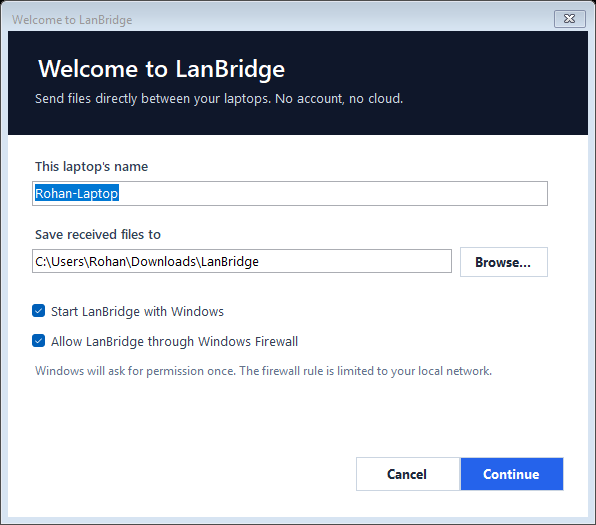
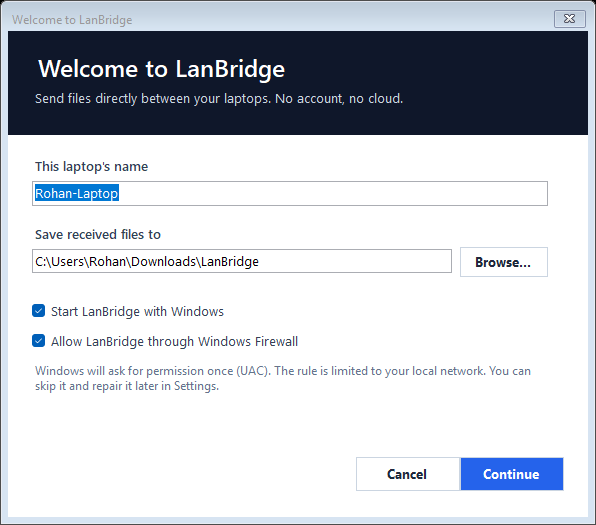
fix: make firewall setup one-time and polish docs

Changed region(s): [[0.3926, 0.701, 0.906, 0.7314], [0.0604, 0.7314, 0.3624, 0.7619]]

diff --git a/src/LanBridge/Forms/FirstRunForm.cs b/src/LanBridge/Forms/FirstRunForm.cs
@@ -17,7 +17,7 @@ namespace LanBridge
 
         public AppConfig Config => _config;
         public bool StartWithWindows => _startWithWindows.Checked;
-        public bool AddFirewallRule => _firewall.Checked;
+        public bool AddFirewallRule => _firewall.Checked && _firewall.Enabled;
 
         public FirstRunForm(AppConfig config)
         {
@@ -115,26 +115,32 @@ namespace LanBridge
             };
             Controls.Add(_startWithWindows);
 
+            var firewallRulePresent = Firewall.IsRulePresent();
             _firewall = new CheckBox
             {
-                Text = "Allow LanBridge through Windows Firewall",
+                Text = firewallRulePresent
+                    ? "Windows Firewall is already configured"
+                    : "Allow LanBridge through Windows Firewall",
                 Checked = true,
+                Enabled = !firewallRulePresent,
                 AutoSize = true,
                 ForeColor = Color.FromArgb(51, 65, 85),
                 Location = new Point(24, 300)
             };
             Controls.Add(_firewall);
 
-            var note = new Label
+            var firewallNote = new Label
             {
-                Text = "Windows will ask for permission once. The firewall rule is limited to your local network.",
+                Text = firewallRulePresent
+                    ? "The installer already added the rule. This setup will not ask for administrator permission."
+                    : "Windows will ask for permission once (UAC). The rule is limited to your local network. You can skip it and repair it later in Settings.",
                 ForeColor = Color.FromArgb(100, 116, 139),
                 Font = new Font("Segoe UI", 9f),
                 AutoSize = false,
                 Size = new Size(516, 36),
                 Location = new Point(24, 332)
             };
-            Controls.Add(note);
+            Controls.Add(firewallNote);
 
             _error = new Label
             {

diff --git a/src/LanBridge/Core/TransferServer.cs b/src/LanBridge/Core/TransferServer.cs
@@ -227,7 +227,7 @@ namespace LanBridge.Core
                         return;
                     }
 
-                    await SendErrorAsync(ssl, "not_implemented", cancellationToken).ConfigureAwait(false);
+                    await SendErrorAsync(ssl, "bad_intent", cancellationToken).ConfigureAwait(false);
                 }
             }
             catch (OperationCanceledException) when (cancellationToken.IsCancellationRequested)

diff --git a/src/LanBridge/Program.cs b/src/LanBridge/Program.cs
@@ -78,7 +78,7 @@ namespace LanBridge
                         log.Warn("Could not change startup: " + ex.Message);
                     }
 
-                    if (addFirewallRule)
+                    if (addFirewallRule && !Firewall.IsRulePresent())
                     {
                         bool added;
                         try

diff --git a/docs/manual-test.md b/docs/manual-test.md
@@ -1,0 +1,52 @@
+# Manual two-laptop checklist
+
+This is the release gate. Run it once with the build you intend to publish. Both laptops should use the same `LanBridge.exe`.
+
+## Prepare
+
+- [ ] Copy `artifacts\lanbridge-v0.1.0-win.zip` to laptop B, extract it, and run `LanBridge.exe`.
+- [ ] Run `artifacts\LanBridge.exe` on laptop A.
+- [ ] Complete first-run on both: device name, receive folder, and startup choice.
+- [ ] On first install only, approve the UAC prompt for the firewall rule. There should be no UAC prompt on later launches.
+- [ ] Confirm both tray icons exist and `%APPDATA%\LanBridge\lanbridge.log` has a listening line.
+
+## Pair
+
+- [ ] On A: tray → **Send files…**, pick a small text file, select B.
+- [ ] On B: the pairing dialog names A, then shows **Approve** and **Deny**. Approve it.
+- [ ] On B: a six-digit code appears and counts down from 2:00.
+- [ ] On A: enter the six digits. Both devices show as **Paired**.
+- [ ] Send the small file and open it from B's `Downloads\LanBridge`.
+
+## Transfers
+
+- [ ] Send a 100 MB or larger file. Progress advances on both laptops.
+- [ ] Start a second send while the first is running. The second is refused as busy, not silently dropped.
+- [ ] While receiving, click **Cancel** on B. Both progress dialogs close; no `.part` file remains in B's receive folder.
+- [ ] Send the same file name twice. The second copy becomes `name (1).ext`; the first is never overwritten.
+- [ ] Restart both apps. Send again without pairing; it goes straight through.
+- [ ] Turn **Visible on this network** off on B, then send from A to the paired B. It should still work via B's last endpoint.
+- [ ] Optional: reinstall B with a fresh identity. A should show **Identity changed** and refuse to auto-trust it.
+
+## Failure checks
+
+- [ ] Stop LanBridge on B and send from A. A reports the peer unreachable/offline without hanging.
+- [ ] On B, decline an incoming offer. A reports that the offer was declined; B writes no file.
+- [ ] Try a filename with `..\`, a slash, or `CON` from a test harness or a renamed file. B saves only a safe leaf name.
+
+## Record the result
+
+Reply with:
+
+```text
+Version:
+Windows build A/B:
+Pairing: passed/failed
+Small transfer: passed/failed
+Large transfer: passed/failed
+Cancel: passed/failed
+Restart/send: passed/failed
+Notes:
+```
+
+If something fails, include the timestamp and the relevant `%APPDATA%\LanBridge\lanbridge.log` lines from both laptops. Remove device names or IPs if you prefer.

diff --git a/CHANGELOG.md b/CHANGELOG.md
@@ -12,7 +12,8 @@ All notable changes to LanBridge are documented here. The format is based on Kee
 - Direct file transfer over TLS 1.2 with SHA-256 verification and atomic `.part` writes.
 - Multiple-file offers, duplicate-name suffixes, per-file progress, and sender/receiver cancellation.
 - Receive folder defaulting to `Downloads\LanBridge`.
-- First-run setup for device name, receive folder, Windows startup, and a scoped firewall rule.
+- First-run setup for device name, receive folder, and Windows startup.
+- Installer adds the scoped firewall rule with one UAC prompt and skips it when the rule already exists.
 - Single-instance guard and per-user installation with a Start Menu shortcut.
 - Build, installer, uninstaller, checksums, CI, and GitHub release workflows.
 
@@ -21,7 +22,7 @@ All notable changes to LanBridge are documented here. The format is based on Kee
 - Mutual certificate pinning: a paired peer is trusted by its full SHA-256 certificate fingerprint.
 - Pairing codes are derived from both certificates and fresh nonces; the code is never sent over the wire.
 - Private identity key is stored in a DPAPI-encrypted PFX; the runtime certificate uses the user key set because Schannel on .NET Framework 4.8 rejects ephemeral keys.
-- Firewall rule is program-scoped, applies to Private and Public profiles, and is limited to `RemoteIp=LocalSubnet`.
+- Firewall rule is program-scoped, applies to Private and Public profiles, and is limited to `RemoteIp=LocalSubnet`; the app does not request UAC on every launch.
 - Transfers are accepted only from physical Wi-Fi/Ethernet subnets; VPN, Hyper-V, Bluetooth, and other virtual adapters are excluded.
 - Remote file names are reduced to a leaf name, reserved names are prefixed, and every file is written to a `.part` file before verification and an atomic move.
 

diff --git a/docs/security.md b/docs/security.md
@@ -50,7 +50,7 @@ This is a guard against accidental exposure, not a firewall against a hostile lo
 
 ### Firewall
 
-The optional first-run step adds a Windows Defender Firewall rule scoped to the LanBridge executable, applies to Private and Public profiles, and limits remote addresses to `LocalSubnet`. The rule is created with `netsh` and a UAC prompt. Declining UAC leaves the app working for outbound sends but blocks inbound connections until the rule is repaired from Settings.
+The installer adds a Windows Defender Firewall rule scoped to the installed executable, applies to Private and Public profiles, and limits remote addresses to `LocalSubnet`. This is the one expected UAC prompt; if the rule already exists, the installer skips it. First-run setup checks for the rule and does not ask again. Declining UAC leaves the app working for outbound sends but blocks inbound connections until the rule is repaired from Settings. The rule is tied to the executable path, so running a different copy of `LanBridge.exe` is a different program to Windows Firewall.
 
 Windows often classifies a home Wi-Fi network as Public. The rule deliberately works on Public as well, because otherwise inbound transfers would fail on a correctly configured home network. If you do not trust the network, turn on **Visible on this network** off and disconnect.
 

diff --git a/CONTRIBUTING.md b/CONTRIBUTING.md
@@ -37,7 +37,7 @@ Do not open a public issue for a vulnerability. Use GitHub's private vulnerabili
 
 - Explain what changes and why.
 - List the commands you ran and the results.
-- Run the manual checklist in `docs/design.md` if you touched pairing, discovery, or transfers.
+- Run the manual checklist in `docs/manual-test.md` if you touched pairing, discovery, or transfers.
 - Note anything you could not test, especially if it needs two laptops.
 
 By contributing you agree that your changes are licensed under the MIT License and that you will follow the Code of Conduct.
